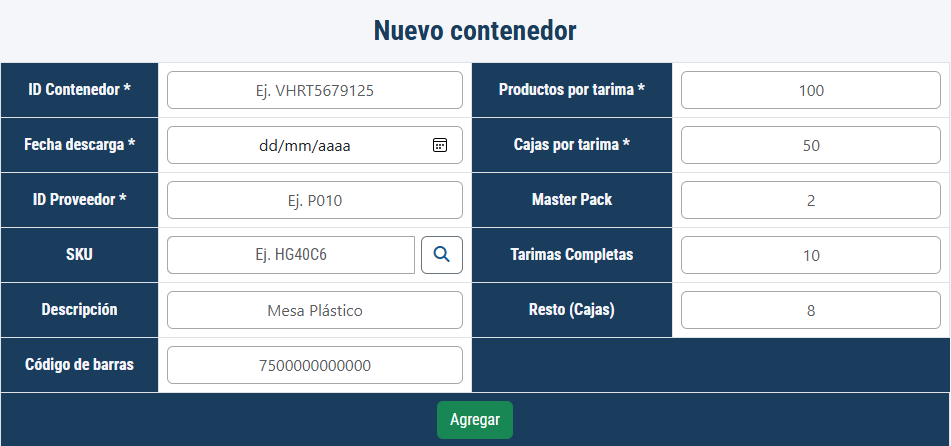
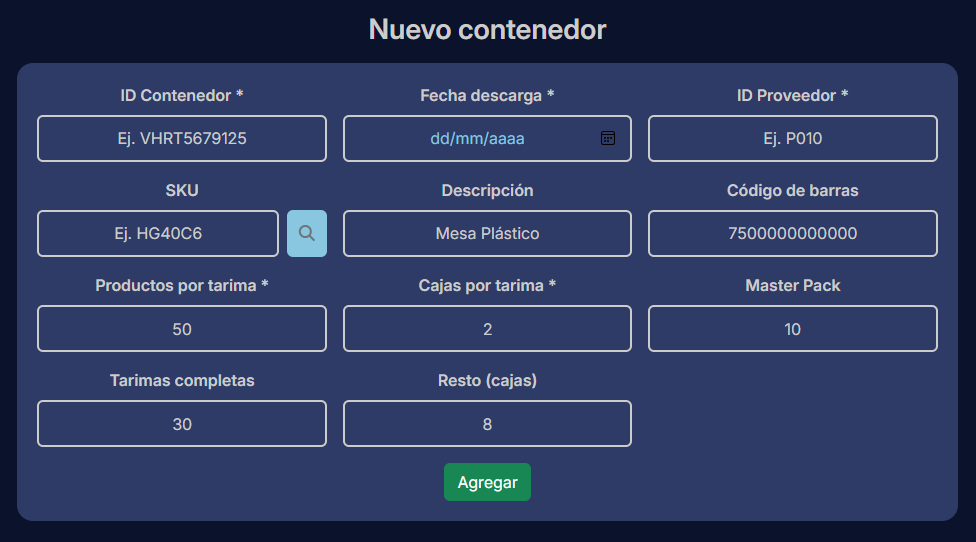
feat(Nuevos estilos nuevo producto)

diff --git a/app/templates/productos/nuevo.html b/app/templates/productos/nuevo.html
@@ -8,32 +8,32 @@
             <div class="row g-3">
                 <div class="input-form col-12 col-md-6 col-lg-4">
                     <label>SKU</label>
-                    <input type="text" class="form-control" form="form-nuevo-producto" name="skuProducto"
+                    <input type="text" class="form-control input-estilo " form="form-nuevo-producto" name="skuProducto"
                         placeholder="Ej. HG40C6">
                 </div>
                 <div class="input-form col-12 col-md-6 col-lg-4">
                     <label>Descripción</label>
-                    <input type="text" class="form-control" form="form-nuevo-producto" name="descripcion"
+                    <input type="text" class="form-control input-estilo " form="form-nuevo-producto" name="descripcion"
                         placeholder="Mesa Plástico">
                 </div>
                 <div class="input-form col-12 col-md-6 col-lg-4">
                     <label>Descripción</label>
-                    <input type="text" class="form-control" form="form-nuevo-producto" name="codigo_barras"
+                    <input type="text" class="form-control input-estilo " form="form-nuevo-producto" name="codigo_barras"
                         placeholder="7500000000000">
                 </div>
                 <div class="input-form col-12 col-md-6 col-lg-4">
                     <label>Cajas por tarima</label>
-                    <input type="text" class="form-control" form="form-nuevo-producto" name="cajas_tarima" min="1"
+                    <input type="text" class="form-control input-estilo " form="form-nuevo-producto" name="cajas_tarima" min="1"
                         placeholder="Ej. 5">
                 </div>
                 <div class="input-form col-12 col-md-6 col-lg-4">
                     <label>Productos por tarima</label>
-                    <input type="text" class="form-control" form="form-nuevo-producto" name="producto_tarima" min="1"
+                    <input type="text" class="form-control input-estilo " form="form-nuevo-producto" name="producto_tarima" min="1"
                         placeholder="Ej. 10">
                 </div>
                 <div class="input-form col-12 col-md-6 col-lg-4">
                     <label>Master Pack</label>
-                    <input type="text" class="form-control" form="form-nuevo-producto" name="master_pack" min="1"
+                    <input type="text" class="form-control input-estilo " form="form-nuevo-producto" name="master_pack" min="1"
                         placeholder="Ej. 2 o N/A">
                 </div>
                 <div class="col-8 mx-auto">

diff --git a/app/templates/home.html b/app/templates/home.html
@@ -8,7 +8,7 @@
                 class="img-fluid w-100 h-100">
         </div>
 
-        <div class="mensaje-inicio h-100 position-relative my-3 text-center">
+        <div class="mensaje-inicio h-100 w-50 m-auto position-relative my-3 text-center">
             <h5>Gestiona tu almacén de forma simple y eficiente</h5>
             <p class="mx-4 mx-md-5 justificar-texto">
                 Diseñado para proyectos personales y pequeñas operaciones,

diff --git a/app/static/styles/sass/tools/_colores.scss b/app/static/styles/sass/tools/_colores.scss
@@ -10,6 +10,7 @@ $colores-secciones: (
   dos: #f3f2f2,
 );
 
+// Colores tema oscuro
 $color-fondo-oscuro-tabla: #2d3b66;
 $color-inputs-oscuro-focus: #3d5088;
 $color-fondo: #1b3061;

diff --git a/app/routes/routes_contenedores.py b/app/routes/routes_contenedores.py
@@ -4,7 +4,7 @@ from app.scripts.f_generales import consultaDescripcion
 from app.scripts.sentencias_sql import consultaProducto, insertContenedor, insertArrivo, idTarima
 from app.routes.routes import baseDatos
 
-contenedores = Blueprint('contenedores', __name__, template_folder='app/templates')
+contenedores = Blueprint('contenedores', __name__)
 apiContenedores = Blueprint('api_contenedores', __name__)
 
 @contenedores.route('/contenedores')

diff --git a/README.md b/README.md
@@ -1,10 +1,45 @@
 # 📦 Inbound Manager Web
 
-Gestor de arrivo de contenedores, con generación de tarimas y manejo de 
-ubicaciones.
-
 ![Badge en Desarollo](https://img.shields.io/badge/estado-desarrollo-green)
 ![Badge de Versión](https://img.shields.io/badge/version-1.0.0-blue)
+
+Gestor de arrivo de mercancia a traves de contenedores.
+Este sistema permite la gestión y registro de los productos que llegan a un almacen a traves de la generación de información como lo es el número de tarimas que se general despues de la descarga de un contenedor, asignandoles un "ID" para poder identificar cada una y así poder despues asignarles una ubicación dentro del almacen. 
+
+Con esto se permite tener un mejor control de la mercancia que ingresa facilitando su movimento dentro del almacen.
+
+## Objetivo del proyecto
+- Facilitar y tener un mejor control del ingreso de mercancia y su posterior ubicacion dentro del almacen, optimizando el tiempo de captura de información y de la integridad del inventario fisico y virtual.
+
+## Alcance
+- 
+- 
+
+## Tecnologias
+![Python](https://img.shields.io/badge/Python-3776AB?style=for-the-badge&logo=python&logoColor=white)
+![Flask](https://img.shields.io/badge/Flask-000000?style=for-the-badge&logo=flask&logoColor=white)
+![SQLite](https://img.shields.io/badge/SQLite-07405E?style=for-the-badge&logo=sqlite&logoColor=white)
+![SQLAlchemy](https://img.shields.io/badge/SQLAlchemy-D71F00?style=for-the-badge&logo=sqlalchemy&logoColor=white)
+![Bootstrap](https://img.shields.io/badge/Bootstrap-563D7C?style=for-the-badge&logo=bootstrap&logoColor=white)
+![Fetch API](https://img.shields.io/badge/Fetch_API-F7DF1E?style=for-the-badge&logo=javascript&logoColor=black)
+![Sass](https://img.shields.io/badge/Sass-CC6699?style=for-the-badge&logo=sass&logoColor=white)
+
+## Arquitectura del sistema
+- 
+
+## Flujo de trabajo
+### Flujo principal
+1. Busqueda del producto que llega en el contenedor para recuperar su información.
+2. Agregar datos como el id del contenedor, el proveedor, tarimas totales y resto, 
+3. Se generan id's para cada una de las tarimas que se suben a la base de datos para esperar que se les asigne una ubicación.
+
+### Flujo secundario
+- Alta y edición de productos
+- Búsqueda de tarimas y contenedores
+- Reasignación de ubicaciones
+
+## Modelo de datos
+- 
 
 ## Funcionalidades
 - Ingreso de contenedores por su ID (Ej. VHRT5679125)
@@ -22,6 +57,7 @@ ubicaciones.
 - Importar/Exportar en archivo Excel
 - Filtros de busqueda
 - Vista de todas las ubicaciones y lo que contienen
+
 
 ## Requisitos
 - Python 3.11.1
@@ -42,7 +78,7 @@ Ingresa a la url `http://127.0.0.1:5000/`
 ### Contenedores
 Páginas donde se muestra la parte de agregar un nuevo contenedor y la información requerida para darlo de alta.
 
-![Nuevo contenedor](/app/static/img/Nuevo_Contenedor.PNG)
+![Nuevo contenedor](/app/static/img/Nuevo_Contenedor.png)
 
 Información mostrada del contenedor que se ha buscado.
 
@@ -67,6 +103,13 @@ Se pueden poner los filtros de mostrar todos aquellos que ya tiene o no una ubic
 Al presionar el botón de editar se despliega un modal para agregar la nueva ubicación que tendra esa tarima.
 
 ![Nueva ubicacion](/app/static/img/Nuevo_Ubicacion.PNG)
+
+## Limitaciones conocidas
+- 
+
+## Motivación
+- 
+
 
 ## Autores
 [<img src="https://avatars.githubusercontent.com/Salvador-97" width=115><br><sub>Salvador Gutiérrez Olvera</sub>](https://github.com/Salvador-97)
